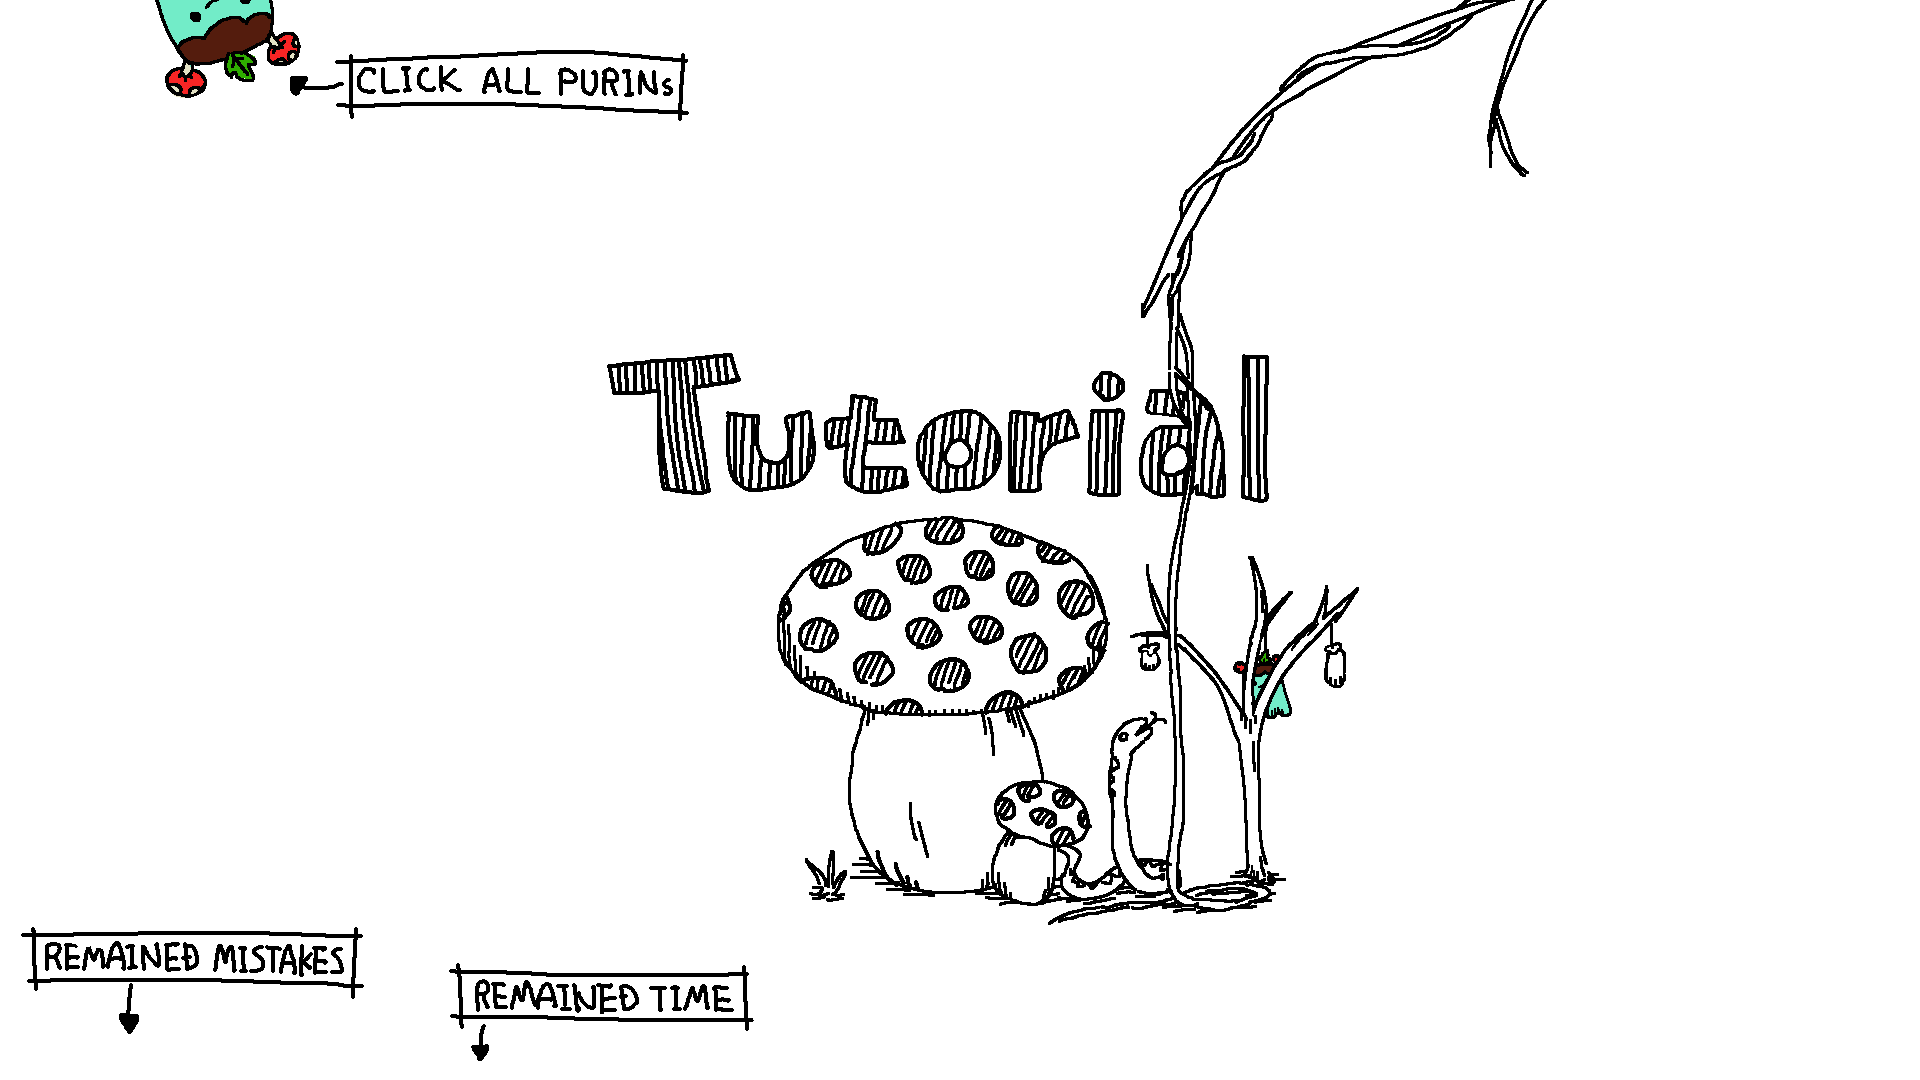
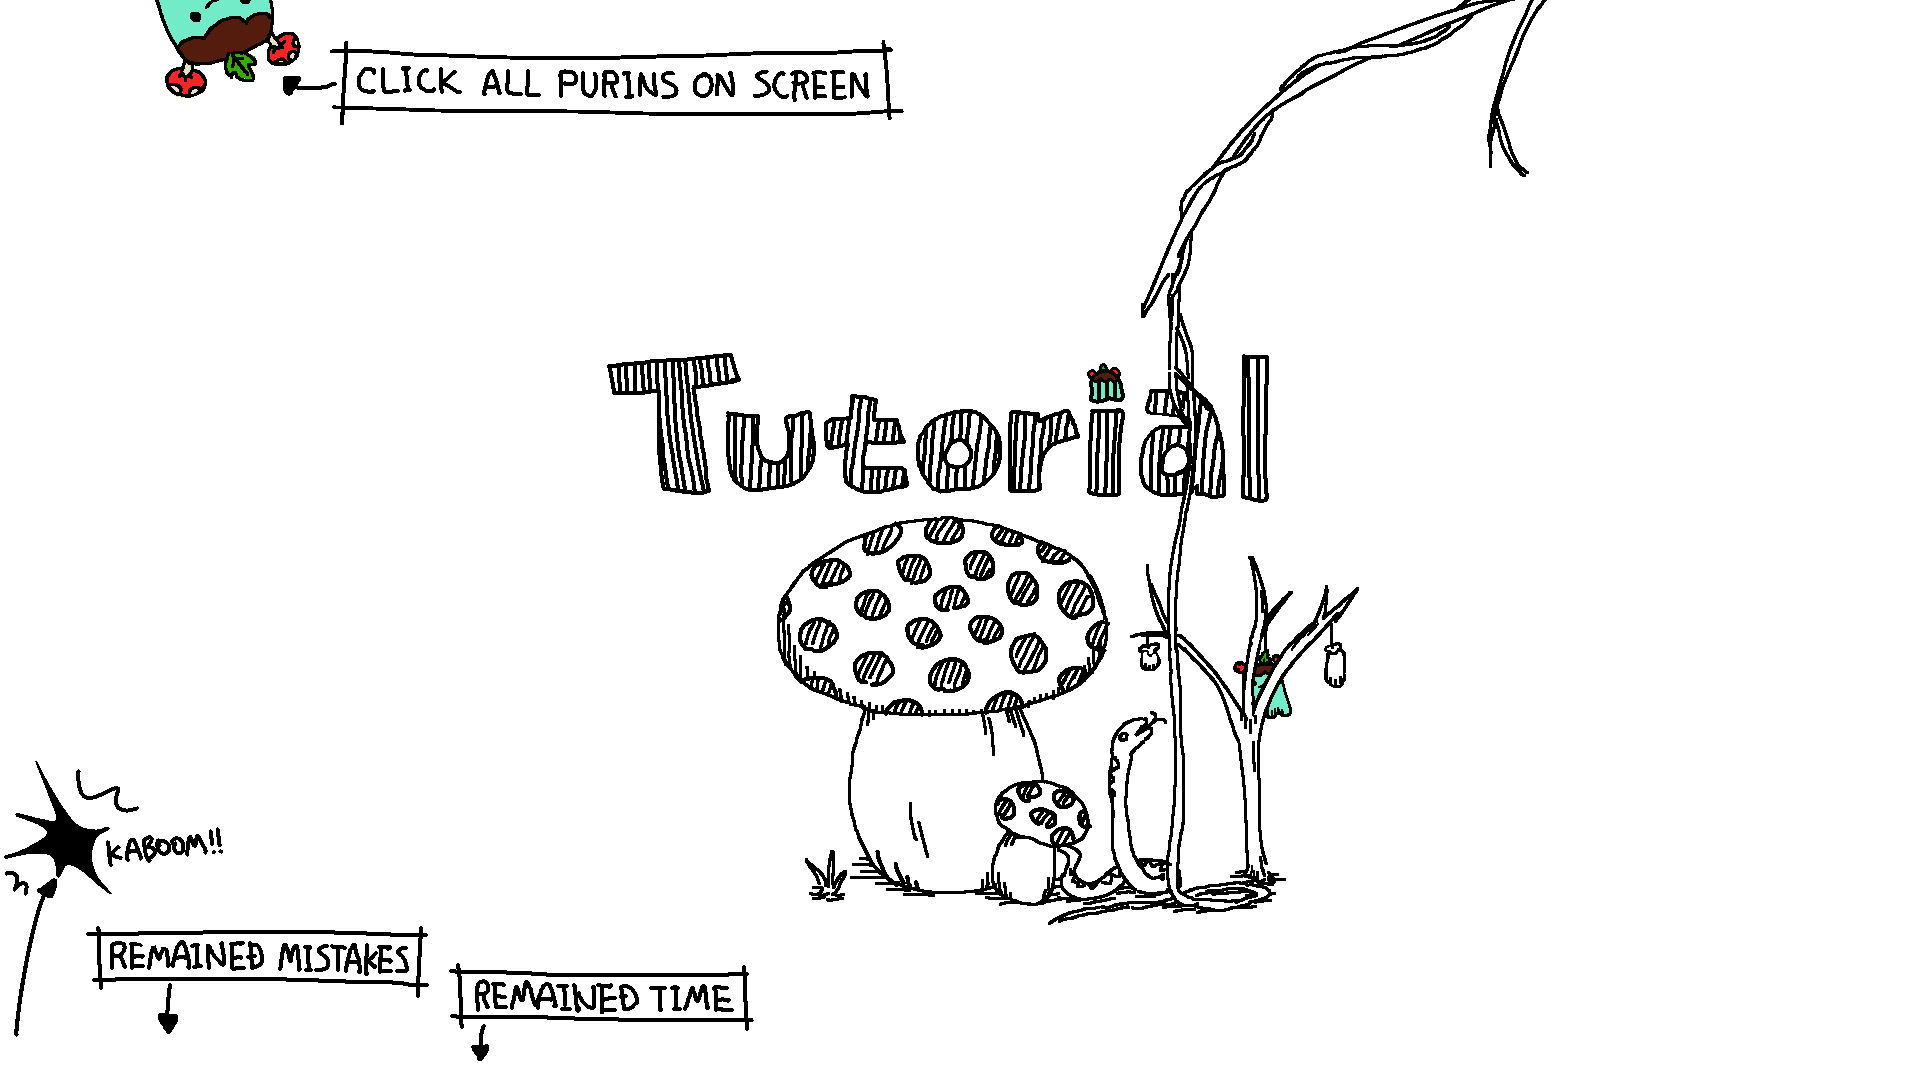
Improve debug mode

Changed region(s): [[0.1562, 0.0306, 0.4688, 0.1222], [0.0, 0.7333, 0.2188, 0.9778], [0.5625, 0.3361, 0.5938, 0.3667]]

diff --git a/src/Game.tsx b/src/Game.tsx
@@ -42,6 +42,9 @@ class GameContext {
       if (this.finished) {
         return
       }
+      if (this.debug) {
+        return
+      }
       this.finished = true
       this.page.setPage(PageState.GameOver)
     }, stage.timeLimit)
@@ -178,6 +181,7 @@ class GameContext {
       const last = this.stage.purins.at(-1)
       if (last) {
         last.points.push(p)
+        this.render()
         console.info(last.points)
       }
       return
@@ -185,6 +189,9 @@ class GameContext {
 
     const found = this.stage.purins.findIndex((purin) => purin.isInside(p))
     if (found == -1) {
+      if (this.debug) {
+        return
+      }
       this.life--
       if (this.life <= 0) {
         this.finished = true

diff --git a/src/stages/stage0.ts b/src/stages/stage0.ts
@@ -33,5 +33,12 @@ export default {
       [1242, 680],
       [1233, 673],
     ]),
+    new Polygon([
+      [1087, 365],
+      [1103, 359],
+      [1121, 369],
+      [1126, 402],
+      [1087, 403],
+    ]),
   ],
 }
